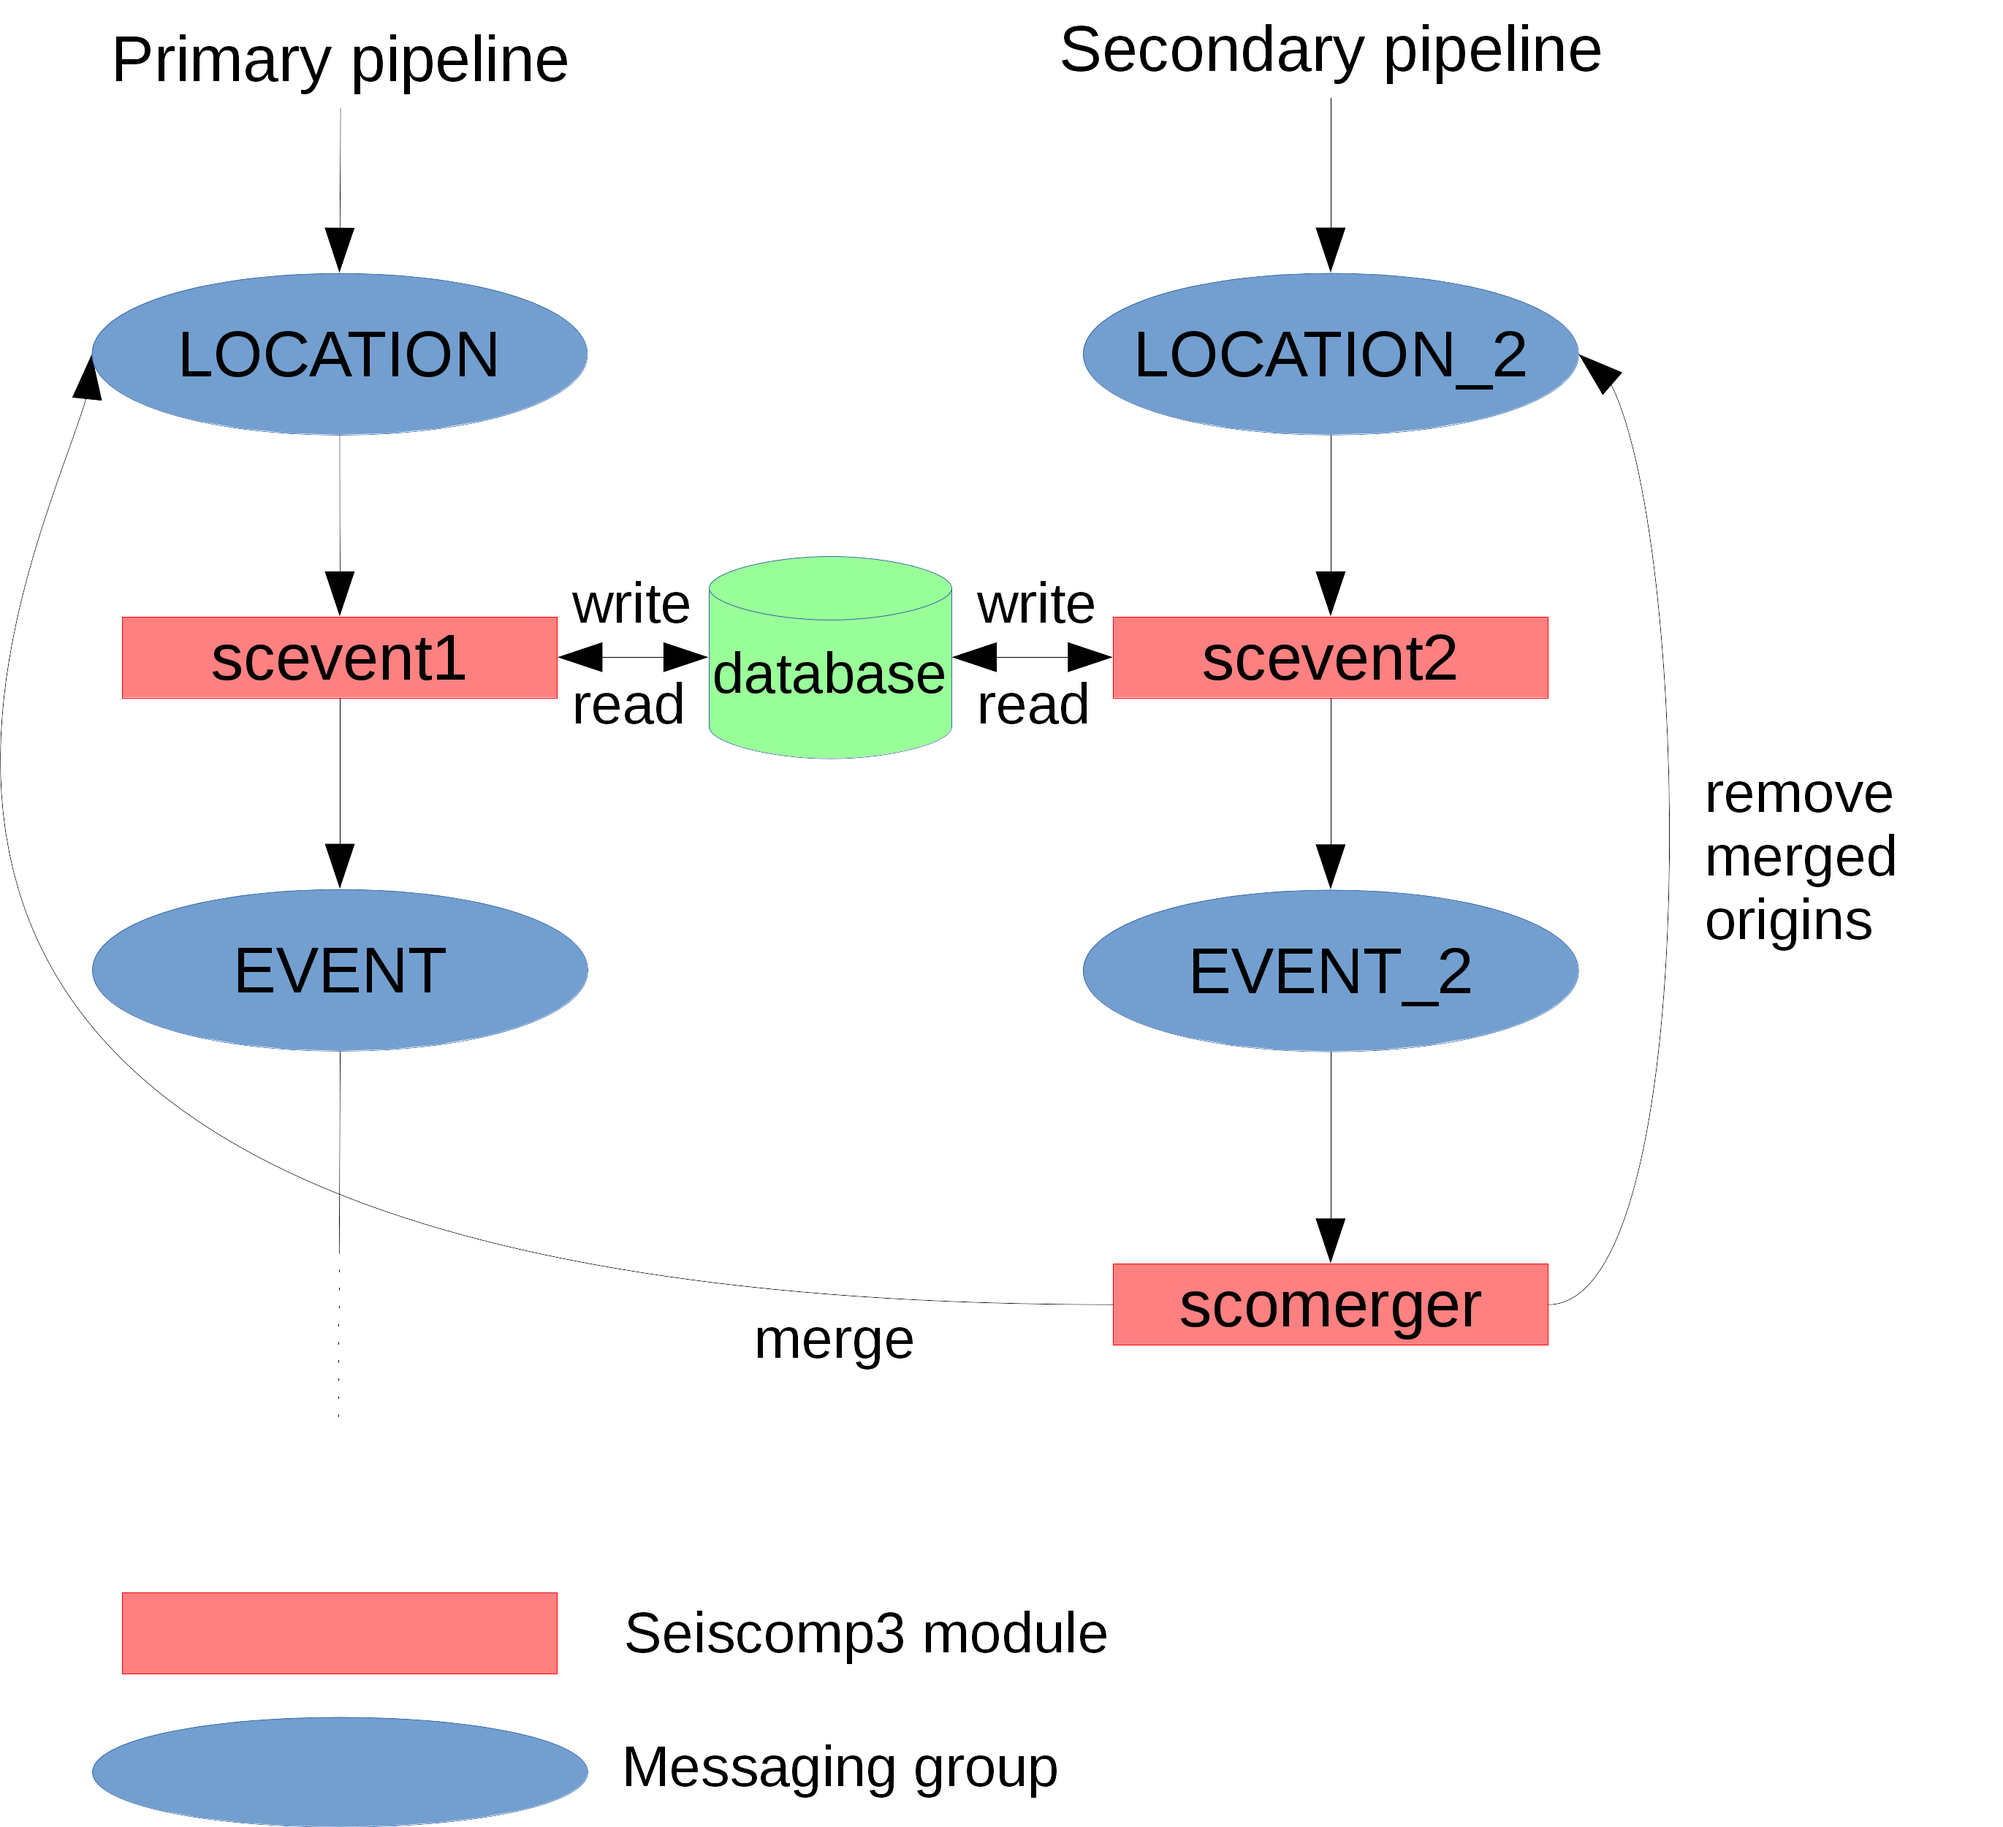
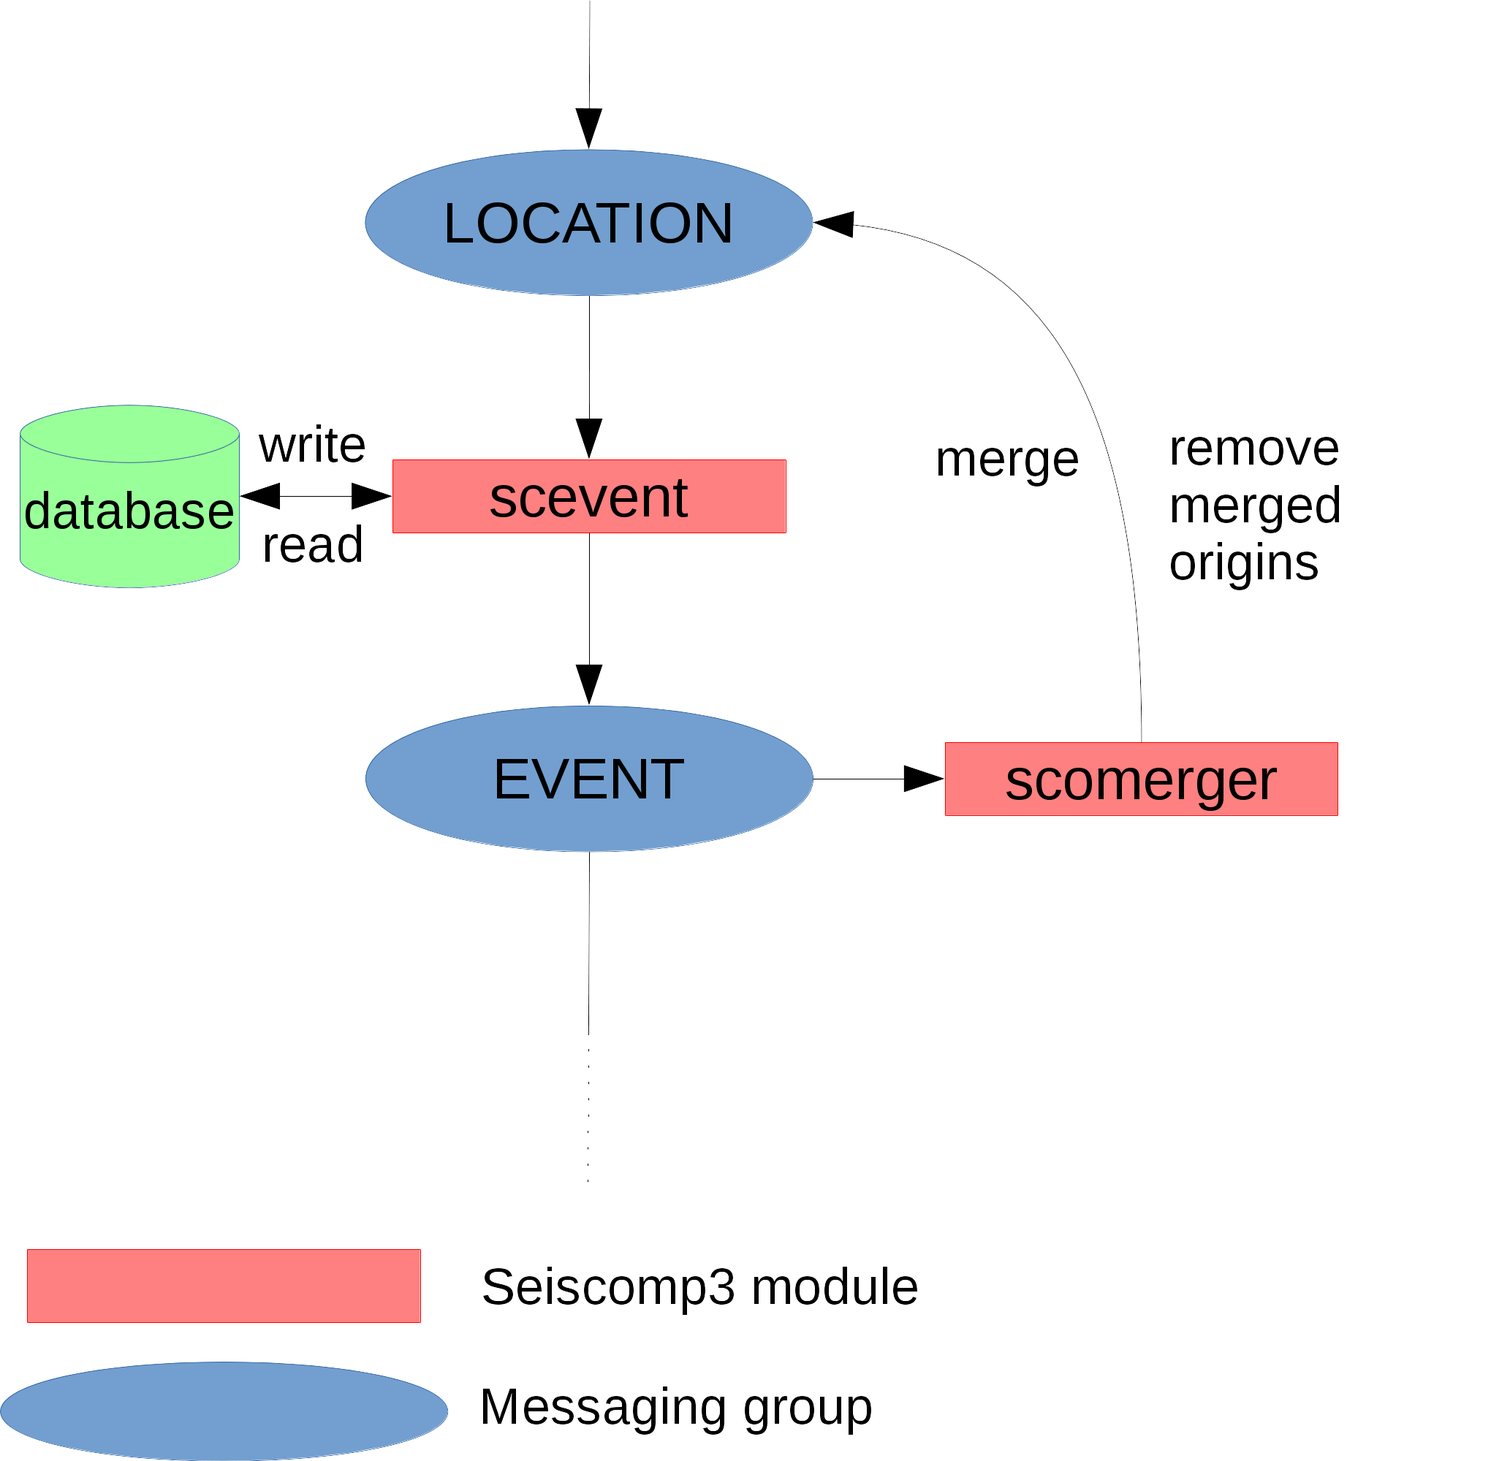
Improve README

diff --git a/README.md b/README.md
@@ -8,37 +8,34 @@ new origin is created with arrivals from both origins and then a relocation
 
 `scomerger` works like this:
 
-- it listens to `EVENT` messages from `scevent2`from the *secondary* pipeline,
+- it listens to `EVENT` messages from `scevent`,
 - when a `EVENT` message is received :
 
     - if the preferred origin is already a merged origin, `scomerger` send a
-	  message to `scevent2` to remove this merged origin. `scevent2` selects then
-	  a new preferred origin and sends a new `EVENT` message (which will be
-	  received and processed by `scomerger`).
+	  message to `scevent` to remove this merged origin. `scevent` selects
+      then a new preferred origin and sends a new `EVENT` message (which will
+      be received and processed by `scomerger`).
 	- if the preferred origin is from the *primary* author, `scomerger` merges
 	  the origin from the *primary* author with the *secondary* one. A new
 	  origin is created with the arrivals of both origins and relocated with
 	  `LOCSAT` (magnitude is not yet updated for the moment).
-    - `scomerger` send a message to `scevent2` to create the new origin in the
+    - `scomerger` send a message to `scevent` to create the new origin in the
 	  database. An `originreference` is created as well to associate the origin
-	  to the event. `scevent2` selects also a new preferred origin.
+	  to the event. `scevent` selects also a new preferred origin.
 
   > **Note**
   >
-  > Merged origin has **scomerger** as AUTHOR (used to know if it's a merged 
+  > Merged origin has **scomerger** as AUTHOR (used to know if it's a merged
   > origin).
   >
   > Merged origin `EvaluationMode` is set to `automatic`.
   >
-  > Origins coming from *secondary* (author|pipeline) must be created after
-  > *primary* ones.
-
-  > Every modifications of the database must be done by `scevent2`. That's why
+  > `scomerger` can send the messages to 2 differents `scevent`. The actions of
+  > removing merged origins and merging can indeed be separated (parameters
+  > `scomerger/connection/groupRemove` and `global/connection/primaryGroup`).
+  >
+  > Every modifications of the database must be done by `scevent`. That's why
   > `scomerger` send messages to it.
-
-`scomerger` was designed to work separately from the mainstream to avoid 
-nested messages. `scomerger` indeed listen to `EVENT` messaging group on a 
-dedicated *secondary* pipeline but also send messages to it.
 
 ![Schéma](docs/schema.png)
 
